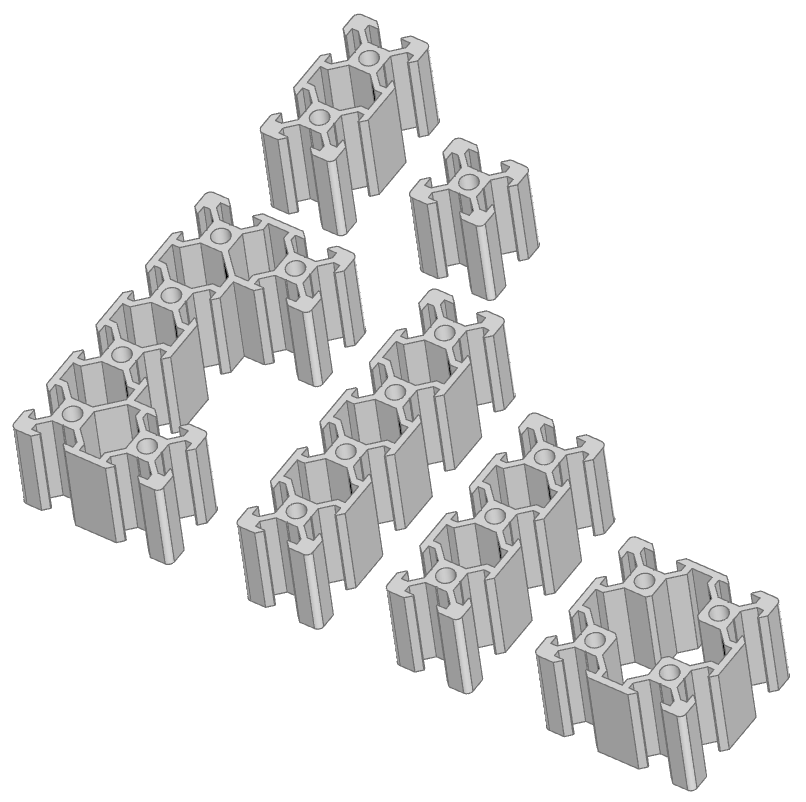
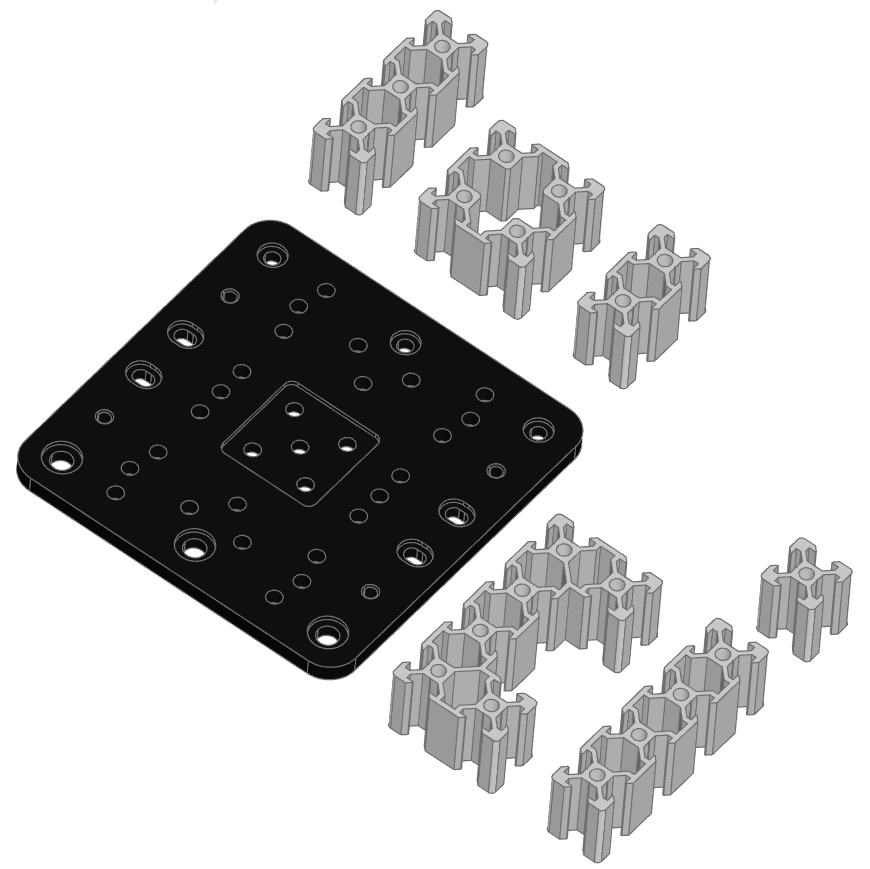
Added CBeamGantryPlateXLarge

diff --git a/src/bd_warehouse/open_builds.py b/src/bd_warehouse/open_builds.py
@@ -329,7 +329,7 @@ class VSlotLinearRail(BasePartObject):
 
 
 class CBeamLinearRail(BasePartObject):
-    """Part Object: OpenBuilds C Beam Linear Rail
+    """Part Object: OpenBuilds C-Beam Linear Rail
 
     Args:
         length (float): rail length
@@ -361,8 +361,97 @@ class CBeamLinearRail(BasePartObject):
         # RigidJoint("test2", self, Location((0, -10, 50), (90, 0, 0)))
 
 
+class CBeamGantryPlateXLarge(BasePartObject):
+    """Part Object: OpenBuilds C-Beam Gantry Plate X-Large
+
+    Achieve unparalleled stability in your builds with the XLarge C-Beam Gantry Plate,
+    designed to accommodate up to six wheels for an extremely stable gantry. This versatile
+    plate is essential for both Belt and Pinion and Lead Screw transmissions. With recessed
+    holes for professional flush mounts and tapped holes for a 90° connection, this plate is
+    ideal for XY configurations, offering multiple mounting options to suit your project needs.
+
+    Features:
+        - Wide stance for enhanced stability
+        - Countersunk holes for a flush finish
+        - Tapped holes for easy 90° connections
+        - Center recess for additional mounting options
+        - Supports multiple mounting configurations
+
+    Specifications:
+        - Size: 125 x 125mm
+        - Thickness: 6mm
+        - Material: 6061 – T5 Aluminum
+        - Finish: Brushed and anodized
+        - Color: Black
+
+    Args:
+        rotation (RotationLike, optional): angles to rotate about axes. Defaults to (0, 0, 0).
+        align (Union[Align, tuple[Align, Align, Align]], optional): align min, center,
+            or max of object. Defaults to (Align.CENTER, Align.CENTER, Align.MIN).
+        mode (Mode, optional): combine mode. Defaults to Mode.ADD.
+    """
+
+    _applies_to = [BuildPart._tag]
+
+    def __init__(
+        self,
+        rotation: RotationLike = (0, 0, 0),
+        align: Union[None, Align, tuple[Align, Align, Align]] = None,
+        mode: Mode = Mode.ADD,
+    ):
+        with BuildPart() as plate:
+            with BuildSketch(Plane.XY) as plate_skt:
+                RectangleRounded(125, 125, 10)
+                with GridLocations(30, 30, 3, 3):
+                    Circle(2.6, mode=Mode.SUBTRACT)
+                with GridLocations(20, 80.6, 2, 2):
+                    Circle(2.6, mode=Mode.SUBTRACT)
+                with GridLocations(65, 80.6, 2, 2):
+                    Circle(2.6, mode=Mode.SUBTRACT)
+                with GridLocations(60, 20, 2, 2):
+                    Circle(2.6, mode=Mode.SUBTRACT)
+                with GridLocations(60, 100.6, 2, 2):
+                    Circle(2.6, mode=Mode.SUBTRACT)
+                with GridLocations(20, 20, 2, 2):
+                    Circle(2.6, mode=Mode.SUBTRACT)
+            extrude(amount=6)
+
+            # Recess
+            with BuildSketch(Plane.XY.offset(6)):
+                RectangleRounded(35, 35, 2.8)
+            extrude(amount=-1.6, mode=Mode.SUBTRACT)
+
+            # Slots
+            with BuildSketch(Plane.XY.offset(6)):
+                with GridLocations(102.6, 20, 2, 2):
+                    SlotOverall(11.135, 4.568 * 2)
+            extrude(amount=-1.6, mode=Mode.SUBTRACT)
+            with BuildSketch(Plane.XY):
+                with GridLocations(102.6, 20, 2, 2):
+                    SlotOverall(7.1, 2.55 * 2)
+            extrude(amount=6, mode=Mode.SUBTRACT)
+
+            # CounterSink - tapped holes (thread not modelled)
+            with Locations((0, 0, 6)):
+                with GridLocations(100.6, 60, 2, 2):
+                    CounterSinkHole(2.1, 2.7, counter_sink_angle=90)
+
+            # CounterBore
+            with Locations((0, -50.3, 6)):
+                with GridLocations(50.3, 0, 3, 1):
+                    CounterBoreHole(3.6, 6.125, 1.6, 6)
+            with Locations((0, 50.3, 6)):
+                with GridLocations(50.3, 0, 3, 1):
+                    CounterBoreHole(2.55, 4.5675, 1.6, 6)
+
+        super().__init__(plate.part, rotation=rotation, align=align, mode=mode)
+        self.color = Color(0x020202)
+
+
 if __name__ == "__main__":
-    from ocp_vscode import show
+    from ocp_vscode import show, set_defaults, Camera
+
+    # set_defaults(reset_camera=Camera.CENTER)
 
     show(
         pack(
@@ -373,6 +462,7 @@ if __name__ == "__main__":
                 VSlotLinearRail("20x60", 25),
                 VSlotLinearRail("20x80", 25),
                 VSlotLinearRail("40x40", 25),
+                CBeamGantryPlateXLarge(),
             ],
             20,
         )

diff --git a/docs/openbuilds.rst b/docs/openbuilds.rst
@@ -21,3 +21,4 @@ Here are classes/parts provided:
 .. autoclass:: CBeamLinearRailProfile
 .. autoclass:: VSlotLinearRail
 .. autoclass:: CBeamLinearRail
+.. autoclass:: CBeamGantryPlateXLarge
